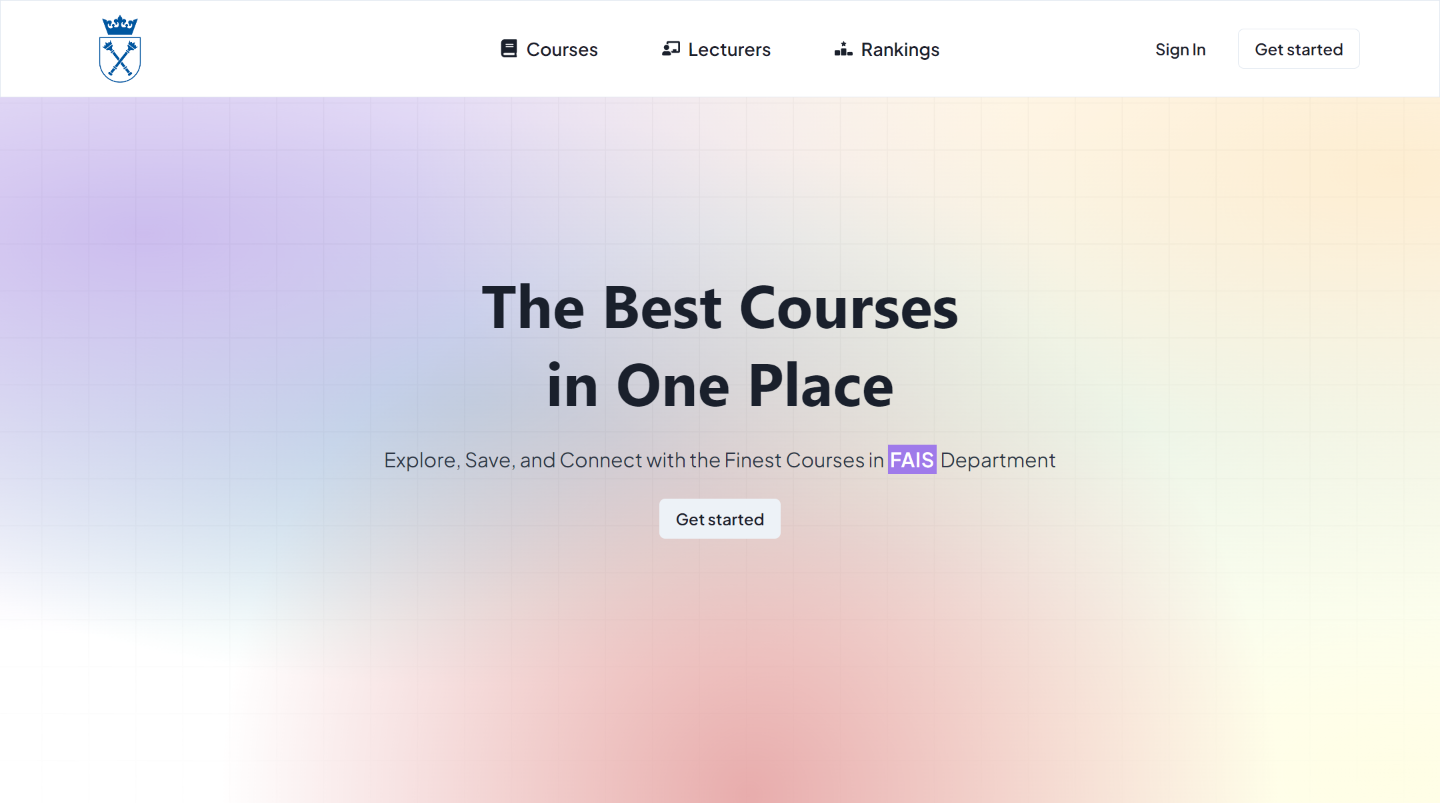
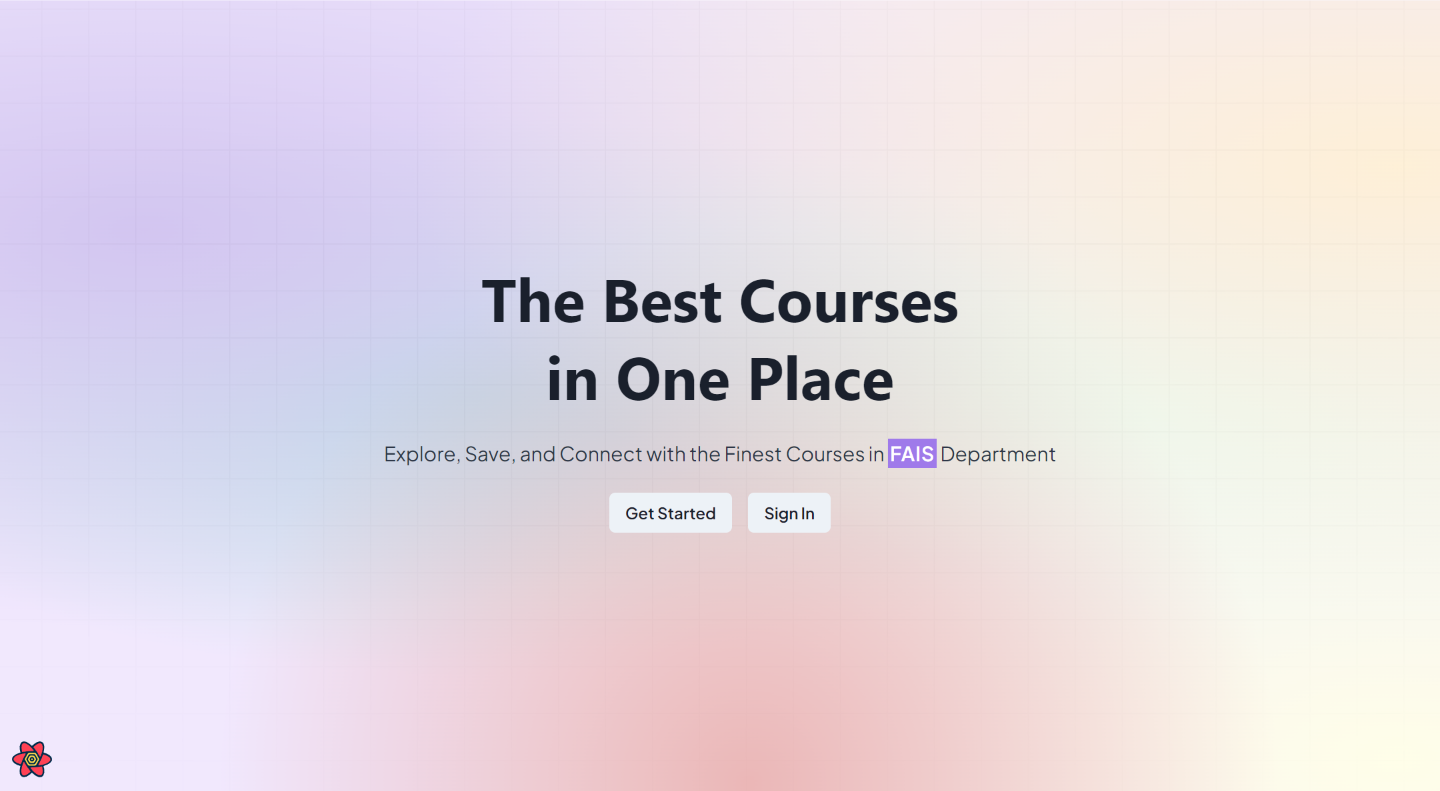
Course page (#19)
* chore: update homepage screenshot

* refactor: not use magic numbers

* fix: make debounce work

* chore: courses page refactor

* chore: small performence boost

* chore: memoize navigations

* chore: keep changes

* chore: remove file

diff --git a/code/client/src/pages/Courses/components/Gallery/CoursesGalleryCard.tsx b/code/client/src/pages/Courses/components/Gallery/CoursesGalleryCard.tsx
@@ -3,6 +3,7 @@ import { CoursesResponse } from '@/types/pocketbaseTypes'
 import {
   Card,
   CardBody,
+  CardFooter,
   CardHeader,
   Flex,
   Heading,
@@ -13,7 +14,7 @@ import {
   Text,
   VStack,
 } from '@chakra-ui/react'
-import { ReactNode } from 'react'
+import { ReactNode, useMemo } from 'react'
 
 import {
   FaCalendar,
@@ -52,14 +53,14 @@ const getCourseInfo = ({
 }
 
 function CoursesGalleryCard({ course }: Props) {
-  const courseInfo = getCourseInfo(course)
+  const courseInfo = useMemo(() => getCourseInfo(course), [course])
 
   return (
     <Card
       h={'full'}
       size={'sm'}
-      _hover={{ transform: 'scale(1.02)' }}
-      transition={'150ms'}>
+      _hover={{ bgColor: 'gray.100' }}
+      transition={'background-color 50ms'}>
       <CardHeader>
         <Heading as={'h3'} size={'md'} mt={2}>
           {course.name}
@@ -69,7 +70,9 @@ function CoursesGalleryCard({ course }: Props) {
         </Heading>
       </CardHeader>
       <CardBody>
-        <Text noOfLines={3}>{course.description}</Text>
+        <Text fontSize={'sm'}>{course.short_description}</Text>
+      </CardBody>
+      <CardFooter display={'block'}>
         <VStack divider={<StackDivider />} mt={6}>
           {courseInfo.map(({ label, value, icon }) => (
             <Flex
@@ -86,7 +89,7 @@ function CoursesGalleryCard({ course }: Props) {
             </Flex>
           ))}
         </VStack>
-      </CardBody>
+      </CardFooter>
     </Card>
   )
 }

diff --git a/code/client/src/pages/Course/Course.tsx b/code/client/src/pages/Course/Course.tsx
@@ -1,7 +1,16 @@
 import { getCourse } from '@/api/course'
-import { Card, CardBody, Center, Spinner } from '@chakra-ui/react'
+import {
+  Box,
+  Card,
+  CardBody,
+  Center,
+  Container,
+  Heading,
+  Spinner,
+} from '@chakra-ui/react'
 import { useQuery } from 'react-query'
 import { useParams } from 'react-router-dom'
+import CourseRatings from './components/CourseRatings'
 
 function Course() {
   const { courseId } = useParams<{ courseId: string }>()
@@ -18,16 +27,27 @@ function Course() {
   if (error) throw error
 
   return (
-    <Card>
-      <CardBody>
-        {isLoading && (
-          <Center minH={'sm'} w='full' h='full'>
-            <Spinner />
-          </Center>
-        )}
-        {isSuccess && <div>{course.name}</div>}
-      </CardBody>
-    </Card>
+    <Container maxW='8xl'>
+      <Card>
+        <CardBody>
+          {isLoading && (
+            <Center minH={'sm'} w='full' h='full'>
+              <Spinner />
+            </Center>
+          )}
+          {isSuccess && (
+            <>
+              <Box textAlign={'center'}>
+                <Heading as={'h1'} size={'2xl'} fontWeight={'medium'}>
+                  {course.name}
+                </Heading>
+              </Box>
+              <CourseRatings course={course} />
+            </>
+          )}
+        </CardBody>
+      </Card>
+    </Container>
   )
 }
 

diff --git a/code/client/src/pages/Courses/components/Gallery/CoursesGallery.tsx b/code/client/src/pages/Courses/components/Gallery/CoursesGallery.tsx
@@ -1,8 +1,8 @@
 import links from '@/config/links'
+import { CoursesResponseWithFields } from '@/types/pocketbaseExtensions'
 import { Grid, GridItem } from '@chakra-ui/react'
 import Link from '@ui/Link'
 import CoursesGalleryCard from './CoursesGalleryCard'
-import { CoursesResponseWithFields } from '@/types/pocketbaseExtensions'
 
 interface Props {
   courses: CoursesResponseWithFields[]
@@ -10,7 +10,7 @@ interface Props {
 
 function CoursesGallery({ courses }: Props) {
   return (
-    <Grid gap={8} templateColumns={'repeat(auto-fill, minmax(240px, 1fr))'}>
+    <Grid gap={8} templateColumns={'repeat(auto-fill, minmax(280px, 1fr))'}>
       {courses.map((course) => (
         <GridItem key={course.id}>
           <Link
@@ -26,7 +26,7 @@ function CoursesGallery({ courses }: Props) {
 
 function CoursesGallerySkeleton() {
   return (
-    <Grid gap={8} templateColumns={'repeat(auto-fill, minmax(240px, 1fr))'}>
+    <Grid gap={8} templateColumns={'repeat(auto-fill, minmax(280px, 1fr))'}>
       {Array.from({ length: 18 }).map((_, index) => (
         <GridItem key={index}>
           <CoursesGalleryCard.Skeleton />

diff --git a/code/client/src/components/Navigation/Navigation.tsx b/code/client/src/components/Navigation/Navigation.tsx
@@ -1,7 +1,14 @@
 import { Center, Show } from '@chakra-ui/react'
+import React from 'react'
 import NavigationDesktop from './NavigationDesktop'
 import NavigationMobile from './NavigationMobile'
 import useScroll from '@/hooks/useScroll'
+
+// Memoized NavigationMobile component
+const MemoizedNavigationMobile = React.memo(NavigationMobile)
+
+// Memoized NavigationDesktop component
+const MemoizedNavigationDesktop = React.memo(NavigationDesktop)
 
 function Navigation() {
   const { hasScrolled, scrollDirection } = useScroll()
@@ -20,10 +27,12 @@ function Navigation() {
       transition={'top 350ms'}
       zIndex={'banner'}>
       <Show below={'md'}>
-        <NavigationMobile />
+        {/* Use the memoized version */}
+        <MemoizedNavigationMobile />
       </Show>
       <Show above={'md'}>
-        <NavigationDesktop />
+        {/* Use the memoized version */}
+        <MemoizedNavigationDesktop />
       </Show>
     </Center>
   )

diff --git a/code/client/src/pages/Courses/Courses.hooks.ts b/code/client/src/pages/Courses/Courses.hooks.ts
@@ -3,12 +3,14 @@ import { useFilterStore } from '@/stores/filtersStore'
 import { useDebounce } from '@uidotdev/usehooks'
 import { useQuery } from 'react-query'
 
+const DEBOUNCE_TIME = 500
+
 export function useCourses() {
-  const filters = useFilterStore((state) => state.filters)
-  const debouncedName = useDebounce(filters.name, 500)
-  return useQuery(['courses', filters], () =>
+  const { name, ...otherFilters } = useFilterStore((state) => state.filters)
+  const debouncedName = useDebounce(name, DEBOUNCE_TIME)
+  return useQuery(['courses', otherFilters, debouncedName], () =>
     getFilteredCourses({
-      filters: { ...filters, name: debouncedName },
+      filters: { ...otherFilters, name: debouncedName },
       expand: 'fields',
     })
   )

diff --git a/code/client/src/components/ui/Logo.tsx b/code/client/src/components/ui/Logo.tsx
@@ -8,7 +8,13 @@ type Props = { size?: number } & Omit<ComponentProps<typeof Link>, 'to'>
 export default function Logo({ size, ...rest }: Props) {
   return (
     <Link {...rest} to={links.root} p={0}>
-      <Image src='/brand/logo.png' alt='FAISWeb' w={`${size ?? 120}px`} objectFit={'cover'} />
+      <Image
+        src='/brand/logo.png'
+        alt='FAISWeb'
+        w={`${size ?? 120}px`}
+        htmlWidth={`${size ?? 120}px`}
+        objectFit={'cover'}
+      />
     </Link>
   )
 }

diff --git a/code/client/src/pages/Course/components/CourseInfo.tsx b/code/client/src/pages/Course/components/CourseInfo.tsx
@@ -1,0 +1,16 @@
+import { Box, Grid, Heading } from '@chakra-ui/react'
+
+function CourseInfo() {
+  return (
+    <Grid templateColumns={'2fr 1fr'}>
+      <Box>
+        <Heading as={'h2'} size={'lg'} fontWeight={'medium'}>
+          About the course
+        </Heading>
+      </Box>
+      <Box></Box>
+    </Grid>
+  )
+}
+
+export default CourseInfo

diff --git a/code/client/src/pages/Courses/components/Gallery/CoursesGalleryCardFieldsBadges.tsx b/code/client/src/pages/Courses/components/Gallery/CoursesGalleryCardFieldsBadges.tsx
@@ -16,7 +16,13 @@ function CoursesGallertCardFieldsBadges({ fields }: Props) {
     )
   }
 
-  return <Box>{fields.length}</Box>
+  return (
+    <Box>
+      {fields.slice(0, 3).map((field) => (
+        <Tag key={field.id}>{field.shortcut}</Tag>
+      ))}
+    </Box>
+  )
 }
 
 export default CoursesGallertCardFieldsBadges

diff --git a/code/client/src/pages/Courses/Courses.tsx b/code/client/src/pages/Courses/Courses.tsx
@@ -11,7 +11,7 @@ function Courses() {
   }
 
   return (
-    <Container maxW={'container.xl'} p={0}>
+    <Container maxW={'8xl'} p={0}>
       <Grid
         templateColumns={{ base: '1fr', lg: '1fr 3fr' }}
         justifyContent={'space-between'}

diff --git a/code/client/src/types/pocketbaseTypes.ts b/code/client/src/types/pocketbaseTypes.ts
@@ -52,6 +52,7 @@ export type CoursesVerificationFormOptions = 'exam' | 'assesment'
 
 export type CoursesRecord = {
   description: string
+  short_description?: string
   difficulty?: number
   ects?: number
   fields?: RecordIdString[]

diff --git a/code/client/src/pages/Course/components/CourseRatings.tsx b/code/client/src/pages/Course/components/CourseRatings.tsx
@@ -1,0 +1,5 @@
+const CourseRatings = () => {
+  return <div>CourseRatings</div>
+}
+
+export default CourseRatings
